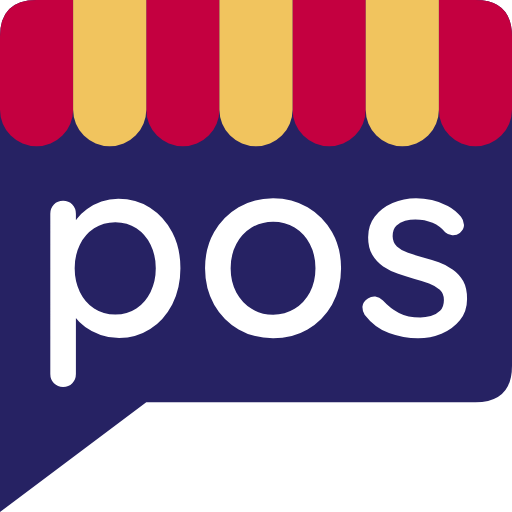
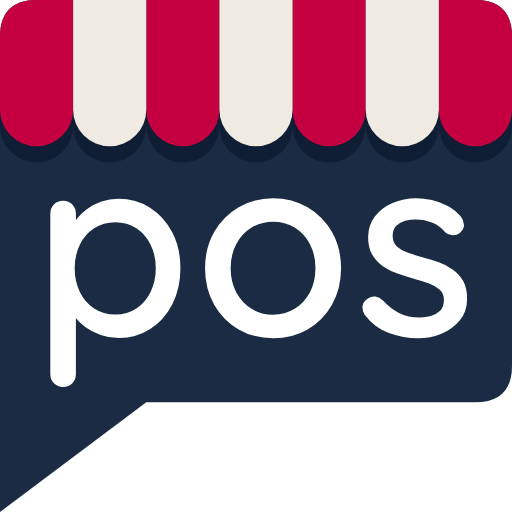
design(brand): the mark is slate, crimson and off-white with a shadow under the awning
Paul, 2026-11-02: the 10-31 shape stays; the wall goes to a deep slate, the gold
stripe becomes off-white, and the hem throws a shadow down the wall. Every SVG,
PNG and the favicon.ico regenerated from one generator; the Windows tile colour
follows the wall.

diff --git a/templates/pos.php b/templates/pos.php
@@ -27,7 +27,7 @@
 		  href="<?php echo esc_attr( WCPOS\WooCommercePOS\PLUGIN_URL ); ?>assets/img/apple-touch-icon.png">
 
 	<!-- IE 10 Metro tile icon -->
-	<meta name="msapplication-TileColor" content="#262263">
+	<meta name="msapplication-TileColor" content="#1C2B44">
 	<meta name="msapplication-TileImage"
 		  content="<?php echo esc_attr( WCPOS\WooCommercePOS\PLUGIN_URL ); ?>assets/img/icon-256x256.png">
 
